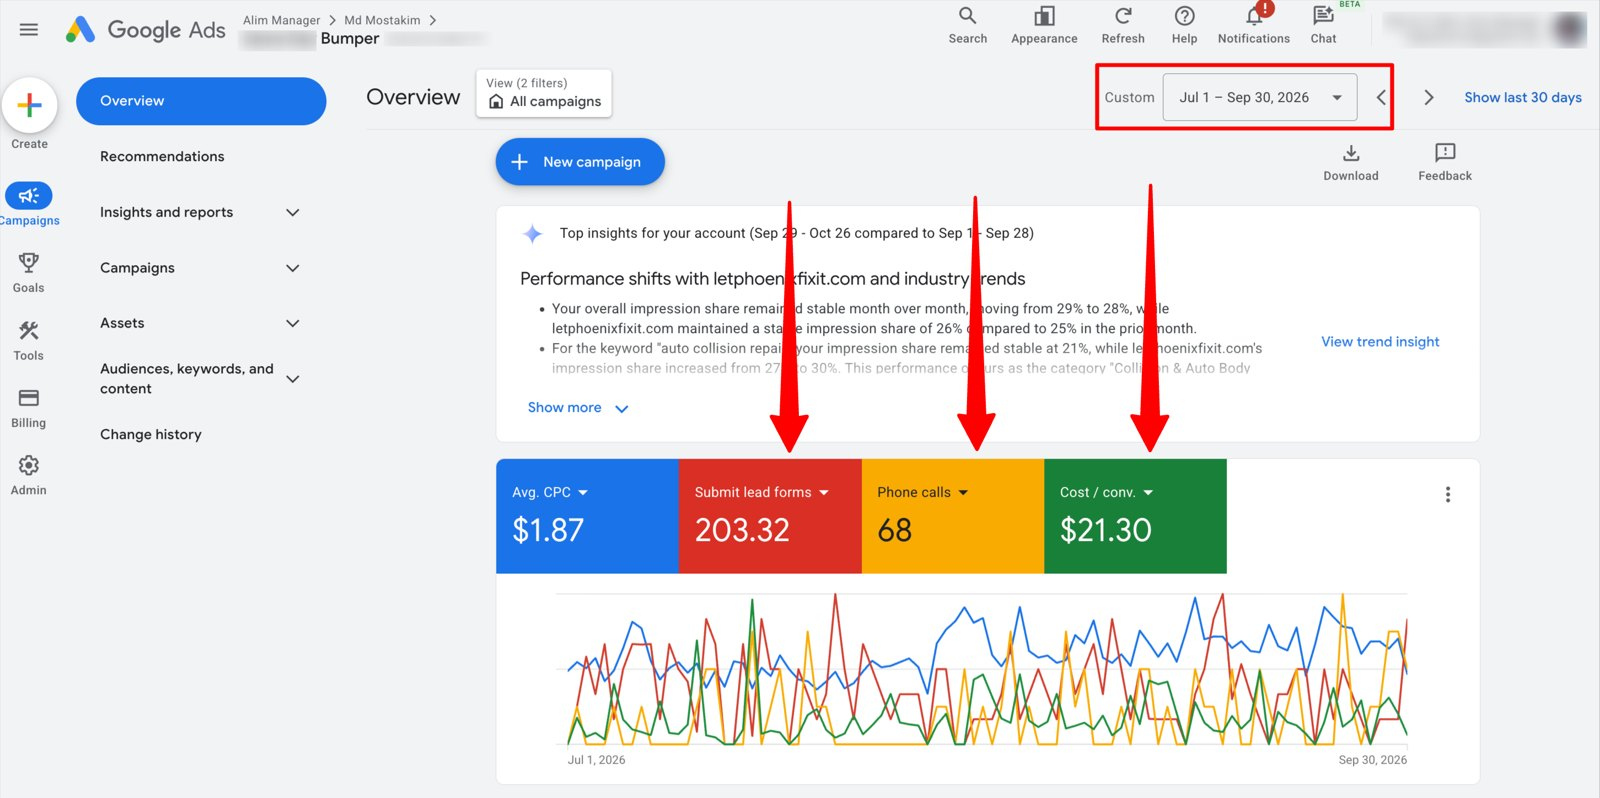
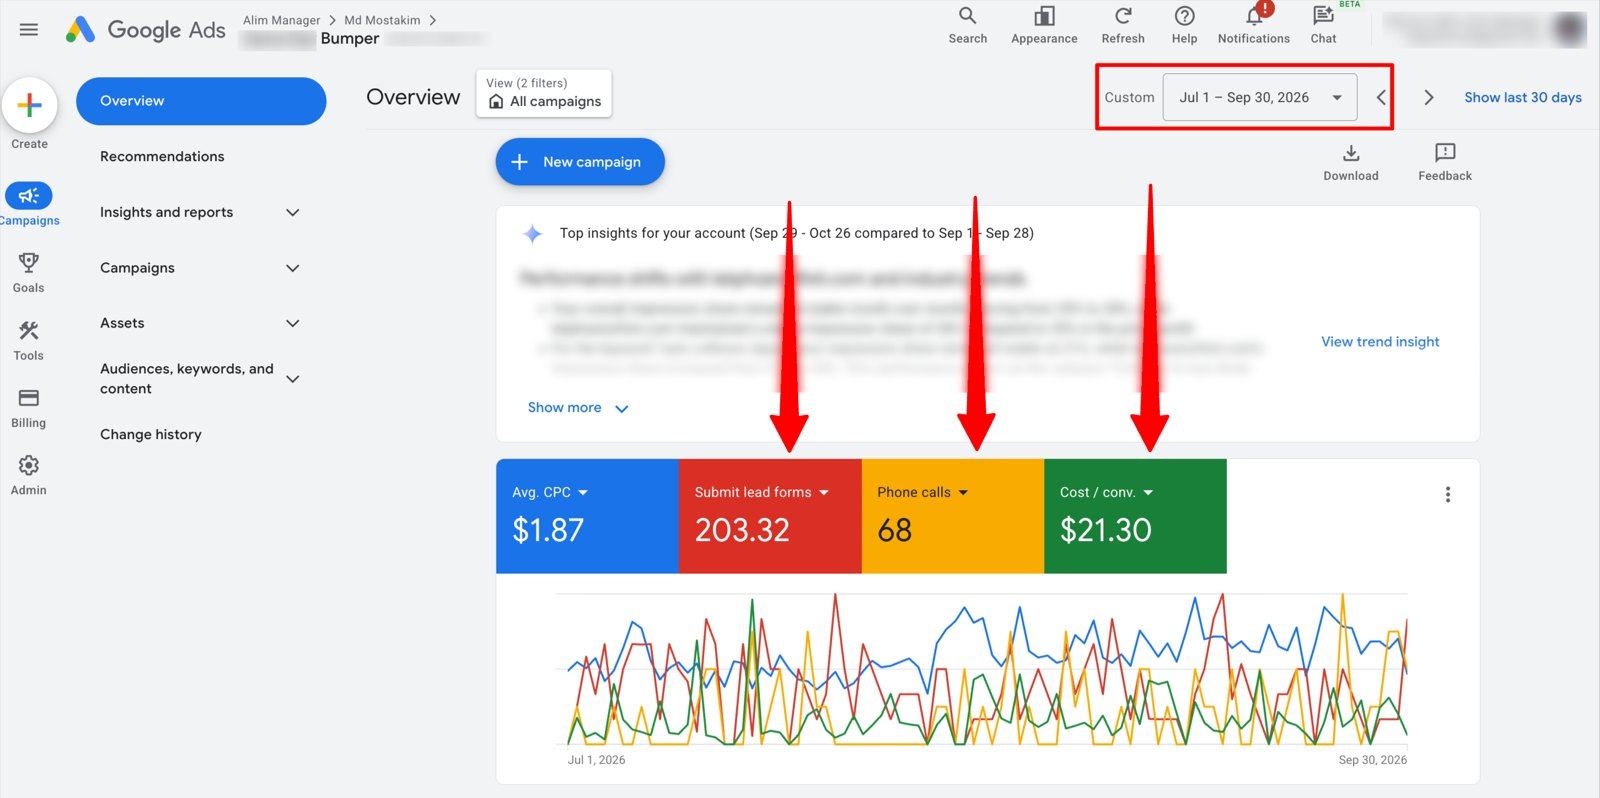
Auto body landing page: shorten page, owner-focused copy, guarantee min spend, blur competitor domain

Changed region(s): [[0.3125, 0.3008, 0.7812, 0.5113]]

diff --git a/auto-body/index.html b/auto-body/index.html
@@ -232,6 +232,21 @@ footer p+p{margin-top:6px}
 .hero-shot figcaption b{display:block;font-family:Offside,sans-serif;font-weight:400;font-size:clamp(20px,2.2vw,26px);color:var(--gold);line-height:1.25}
 .hero-shot figcaption span{display:block;font-family:"IBM Plex Mono",monospace;font-size:12.5px;color:#9A9A9A;margin-top:8px;letter-spacing:.02em}
 
+
+/* review additions */
+.roi{margin-top:24px;background:#fff;border:1px solid var(--line);border-left:4px solid var(--gold);border-radius:12px;padding:18px 20px}
+.roi p{font-size:16px}
+.roi span{display:block;font-size:12.5px;color:var(--muted);margin-top:8px}
+.steps3{grid-template-columns:repeat(3,1fr)}
+.included{margin:28px auto 0;max-width:900px;background:#fff;border:1px solid var(--line);border-radius:14px;padding:24px 28px;text-align:center}
+.included ul{list-style:none;display:grid;grid-template-columns:repeat(3,1fr);gap:10px 18px;text-align:left}
+.included li{padding-left:24px;position:relative;font-size:15.5px}
+.included li:before{content:"✓";position:absolute;left:0;color:var(--gold-d);font-weight:700}
+.guarantee .budget{margin-top:20px}
+.dark .problem p{color:var(--ink)}
+@media (max-width:980px){.steps3{grid-template-columns:1fr}.included ul{grid-template-columns:1fr 1fr}.reviews{grid-template-columns:1fr !important}}
+@media (max-width:640px){.included ul{grid-template-columns:1fr}}
+
 /* Mobile sticky CTA */
 .mcta{display:none}
 
@@ -309,15 +324,19 @@ footer p+p{margin-top:6px}
   </div>
 </header>
 
-<!-- REAL EXPERIENCE -->
+<!-- RESULTS -->
 <section>
   <div class="wrap two">
     <div>
-      <div class="eyebrow">Real Experience</div>
-      <h2>Real Collision Shop <em>Ad Management</em> Experience</h2>
-      <p class="lead">We don't learn the collision industry on your budget. Our team already runs live Google Ads accounts for auto body and bumper repair shops — figuring out why a campaign stalls, building the tracking that proves a lead was real, and moving spend toward the searches that turn into repair orders.</p>
-      <p class="lead" style="margin-top:14px">Look at the keywords bringing in the leads: <b>"auto collision repair"</b>, <b>"dent and scratch repair near me"</b>, <b>"same day bumper"</b>. These are people with a damaged car, ready to book — not tire-kickers. "Same day bumper" brought in leads for just <b>$6.76 each</b> with a perfect 10/10 Quality Score.</p>
-      <p class="lead" style="margin-top:14px">That's the difference: we bid on the searches that turn into repair orders, and cut the ones that don't.</p>
+      <div class="eyebrow">Real Results</div>
+      <h2>The Searches That Bring <em>Damaged Cars</em> To Your Shop</h2>
+      <p class="lead">This is the keyword report from a live collision &amp; bumper repair account we manage. The leads came from people searching <b>"auto collision repair"</b>, <b>"dent and scratch repair near me"</b> and <b>"same day bumper"</b> — drivers with a damaged car, ready to book.</p>
+      <p class="lead" style="margin-top:14px">"Same day bumper" alone brought in calls and estimate requests for just <b>$6.76 each</b>. We bid on the searches that turn into repair orders, and cut the ones that don't.</p>
+      <div class="roi">
+        <div class="eyebrow" style="margin-bottom:8px">Quick math for your shop</div>
+        <p>At <b>$21 per lead</b>, if 1 in 4 leads books a repair, each booked job costs about <b>$85 in ads</b>. If your average repair ticket is $2,500, that's a strong return on every job.</p>
+        <span>Example only — we'll run the numbers for your shop on the call.</span>
+      </div>
       <div class="cta-row"><a href="#book" class="btn">Book a Free Call</a></div>
     </div>
     <figure class="r90-shot">
@@ -327,14 +346,84 @@ footer p+p{margin-top:6px}
   </div>
 </section>
 
-<!-- REVIEWS -->
+<!-- PROBLEMS -->
+<section class="dark">
+  <div class="wrap">
+    <div class="center">
+      <div class="eyebrow">Why Body Shop Ads Waste Money</div>
+      <h2>Running Google Ads Isn't Hard. <em>Running Them Profitably Is.</em></h2>
+      <p class="lead">Someone who just got into a fender bender searches once and calls fast. Every wasted click or missed call is a repair job that went to the shop down the road.</p>
+    </div>
+    <div class="problems">
+      <div class="problem"><b>01</b><p>Paying for clicks from DIY dent kits, job seekers and "how much does it cost" searches</p></div>
+      <div class="problem"><b>02</b><p>Calls coming in from towns your shop doesn't actually serve</p></div>
+      <div class="problem"><b>03</b><p>No idea which ads actually brought cars into your bays</p></div>
+      <div class="problem"><b>04</b><p>Hiring an agency and never speaking to the person running your account</p></div>
+    </div>
+  </div>
+</section>
+
+<!-- PROCESS + INCLUDED -->
+<section>
+  <div class="wrap">
+    <div class="center">
+      <div class="eyebrow">How It Works</div>
+      <h2>From Free Call To <em>Cars In Your Bays</em></h2>
+    </div>
+    <div class="steps steps3">
+      <div class="step"><div class="n">01</div><h3>Free Strategy Call</h3><p>We learn your shop — services, insurance vs. customer-pay work, service area and budget — and look at search demand near you. You get a straight answer on whether Google Ads fits.</p></div>
+      <div class="step"><div class="n">02</div><h3>Build &amp; Launch</h3><p>Campaigns by repair type, targeting the ZIP codes your customers drive from, with call tracking and a photo-estimate landing page.</p></div>
+      <div class="step"><div class="n">03</div><h3>Optimize Every Week</h3><p>We cut wasted searches, check call quality and move budget toward what books jobs. You get a monthly report in plain English.</p></div>
+    </div>
+    <div class="included">
+      <div class="eyebrow" style="margin-bottom:14px">Everything included</div>
+      <ul>
+        <li>Campaign setup &amp; ad copy</li>
+        <li>Photo-estimate landing page</li>
+        <li>Call &amp; form tracking</li>
+        <li>Weekly optimization</li>
+        <li>Monthly plain-English report</li>
+        <li>Direct line to your specialist</li>
+      </ul>
+    </div>
+  </div>
+</section>
+
+<!-- GUARANTEE + BUDGET -->
+<section style="padding-top:0">
+  <div class="wrap">
+    <div class="guarantee">
+      <div class="seal"><div><b>200+</b><span>Leads · 90 Days</span></div></div>
+      <div>
+        <div class="eyebrow">Our 90-Day Lead Guarantee</div>
+        <h2>200+ Qualified Leads in 90 Days.<br><em>Or We Work for Free Until You Do.</em></h2>
+        <p>We can make this promise because we track every lead. You see each call and estimate request in your report — so there's never any guessing about whether we hit the number.</p>
+        <div class="budget"><b>$1,500+/mo</b><span>recommended ad spend for a single-location shop, paid directly to Google. Management starts from $1,000/month. Month-to-month, no long contracts.</span></div>
+        <details class="terms">
+          <summary>See guarantee terms</summary>
+          <ul>
+            <li>For new Google Ads management clients.</li>
+            <li>The agreed ad budget (minimum $1,500/month, paid directly to Google) stays active for the full 90 days.</li>
+            <li>A qualified lead is a unique phone call of 60+ seconds or a form request from someone in your service area asking about your services. Spam, duplicates, job seekers and sales pitches don't count.</li>
+            <li>You give us access to your ad account, landing page and tracking, and reply to change requests within 3 business days.</li>
+            <li>If you don't reach 200 qualified leads within 90 days of launch, we keep managing your campaigns with no management fee until you do.</li>
+            <li>In higher-cost markets, we agree the lead target with you in writing before launch.</li>
+          </ul>
+        </details>
+        <div class="cta-row" style="margin-top:24px"><a href="#book" class="btn">Book a Free Call</a></div>
+      </div>
+    </div>
+  </div>
+</section>
+
+<!-- REVIEWS + TEAM -->
 <section class="dark">
   <div class="wrap">
     <div class="center">
       <div class="eyebrow">What Clients Say</div>
       <h2>Don't take our word for it. <em>Take our clients'.</em></h2>
     </div>
-    <div class="reviews">
+    <div class="reviews" style="grid-template-columns:repeat(2,1fr)">
       <div class="review">
         <div class="stars">★★★★★</div>
         <p>“The optimizations he made had a real impact, and I've been seeing noticeable improvements in performance and overall results since implementing his strategies.”</p>
@@ -345,200 +434,26 @@ footer p+p{margin-top:6px}
         <p>“He helped us reduce our Google Ads budget by approximately 30% while making every remaining advertising dollar about 40% more productive.”</p>
         <div class="who"><div class="avatar">C</div><div><b>Clarity Hearing Care</b>United States · Fiverr review</div></div>
       </div>
-      <div class="review">
-        <div class="stars">★★★★★</div>
-        <p>“Communication has always been smooth, deadlines were respected, and he was always willing to explain things clearly and provide valuable insights along the way.”</p>
-        <div class="who"><div class="avatar">M</div><div><b>marianaspb</b>United States · Fiverr review</div></div>
-      </div>
-    </div>
-  </div>
-</section>
-
-<!-- AGENCY POSITIONING -->
-<section>
-  <div class="wrap">
-    <div class="center">
-      <div class="eyebrow">Built Around Your Shop</div>
-      <h2>A Full Team Behind Your Ads. <em>One Person Accountable.</em></h2>
-      <p class="lead">Most body shops get stuck between two bad options: a big agency where the salesperson never touches the account, or a solo freelancer with no backup, no tracking help and no one to build the landing page. Unlimited Growth Drive gives you a specialist team — and a direct line to the person running your campaigns.</p>
-    </div>
-    <div class="compare">
-      <div class="col">
-        <h3>Typical Big Agency</h3>
-        <div class="chain"><span>Salesperson</span><em>→</em><span>Account manager</span><em>→</em><span>Junior buyer</span><em>→</em><span>Your budget</span></div>
-        <ul>
-          <li>Long contracts and setup fees</li>
-          <li>Never speak to who runs your ads</li>
-          <li>Generic templates across industries</li>
-          <li>Reports full of impressions, not jobs</li>
-        </ul>
-      </div>
-      <div class="col">
-        <h3>Solo Freelancer</h3>
-        <div class="chain"><span>One person</span><em>→</em><span>Everything</span></div>
-        <ul>
-          <li>Ads only — no landing page or tracking team</li>
-          <li>Account goes quiet when they're busy or away</li>
-          <li>No second set of eyes on your spend</li>
-          <li>Calls often untracked</li>
-        </ul>
-      </div>
-      <div class="col us">
-        <h3>Unlimited Growth Drive</h3>
-        <div class="chain"><span>You</span><em>⟷</em><span>Your dedicated Google Ads specialist</span><em>+</em><span>Tracking &amp; landing page team</span></div>
-        <ul>
-          <li>Already running live collision accounts</li>
-          <li>Ads, landing page &amp; call tracking under one roof</li>
-          <li>Weekly hands-on optimization</li>
-          <li>Google Ads, GA4 &amp; Meta certified team</li>
-          <li>Month-to-month — we earn your business monthly</li>
-          <li>You talk to the person making the decisions</li>
-        </ul>
-      </div>
     </div>
     <figure class="team-photo">
       <img src="/assets/hero/ugd-team.jpg" alt="The Unlimited Growth Drive team" loading="lazy" onerror="this.parentElement.style.display='none'">
-      <figcaption><b>The UGD team.</b> Strategy, Google Ads, tracking and web design — one team accountable for your lead flow since 2021.</figcaption>
+      <figcaption><b>The UGD team.</b> A full team behind your ads — and one specialist you talk to directly. No salesperson in the middle.</figcaption>
     </figure>
   </div>
 </section>
 
-<!-- GUARANTEE -->
-<section style="padding-top:0">
-  <div class="wrap">
-    <div class="guarantee">
-      <div class="seal"><div><b>200+</b><span>Leads · 90 Days</span></div></div>
-      <div>
-        <div class="eyebrow">Our 90-Day Lead Guarantee</div>
-        <h2>200+ Qualified Leads in 90 Days.<br><em>Or We Work for Free Until You Do.</em></h2>
-        <p>We can make this promise because we track every lead. You see each call and form request in your report — so there's never any guessing about whether we hit the number.</p>
-        <details class="terms">
-          <summary>See guarantee terms</summary>
-          <ul>
-            <li>For new Google Ads management clients.</li>
-            <li>The ad budget agreed in your growth plan stays active for the full 90 days. You pay ad spend directly to Google.</li>
-            <li>A qualified lead is a unique phone call of 60+ seconds or a form request from someone in your service area asking about your services. Spam, duplicates, job seekers and sales pitches don't count.</li>
-            <li>You give us access to your ad account, landing page and tracking, and reply to change requests within 3 business days.</li>
-            <li>If you don't reach 200 qualified leads within 90 days of launch, we keep managing your campaigns with no management fee until you do.</li>
-          </ul>
-        </details>
-        <div class="cta-row" style="margin-top:24px"><a href="#book" class="btn">Book a Free Call</a></div>
-      </div>
-    </div>
-  </div>
-</section>
-
-<!-- PROCESS -->
-<section style="padding-top:20px">
-  <div class="wrap">
-    <div class="center">
-      <div class="eyebrow">What Happens Next</div>
-      <h2>From Free Call To <em>Active Campaign Management</em></h2>
-    </div>
-    <div class="steps">
-      <div class="step"><div class="n">01</div><h3>Free 30-Minute Strategy Call</h3><p>We learn your shop: services, insurance work vs. customer-pay, service radius, current advertising, budget and growth goals. You get a straight answer on whether paid search fits.</p></div>
-      <div class="step"><div class="n">02</div><h3>Collision Market Assessment</h3><p>We review search demand and competitors in your area, your existing account if you have one, your tracking, and how leads currently move from ad to repair order.</p></div>
-      <div class="step"><div class="n">03</div><h3>Campaign &amp; Landing Page Build</h3><p>Campaign structure, keywords by repair type, ZIP-code targeting, ad copy, call tracking and a photo-estimate landing page — built or rebuilt around your numbers.</p></div>
-      <div class="step"><div class="n">04</div><h3>Optimize Against Real Lead Data</h3><p>Weekly review of search terms, recorded calls, lead quality, bids and budget. Changes are made against what booked in your shop — not what looked good in Google.</p></div>
-    </div>
-    <div class="center cta-row"><a href="#book" class="btn">Book a Free Call</a></div>
-  </div>
-</section>
-
-<!-- IS PPC RIGHT -->
-<section class="dark">
-  <div class="wrap">
-    <div class="fit">
-      <div>
-        <div class="eyebrow">Is PPC the Right Move Yet?</div>
-        <h2><span>More Calls.</span><span>More Repair Orders.</span><span>Less Wasted Spend.</span></h2>
-        <p class="lead">Being straight with you up front is cheaper than finding out in month three. We generally recommend having at least the budget below available for ad spend alone — separate from management — so the account gathers enough data for Google's bidding to learn, compete and win your local auctions.</p>
-        <div class="budget"><b>$1,500+/mo</b><span>recommended ad spend for a single-location collision shop, paid directly to Google. Management starts from $1,000/month.</span></div>
-      </div>
-      <div class="timing">
-        <div class="eyebrow">Timing, Honestly</div>
-        <div class="timeline">
-          <div><b>Week 1–2</b><span>Campaigns, tracking and landing page go live. First calls usually come in within the first couple of weeks.</span></div>
-          <div><b>Month 1–2</b><span>The account gathers data, the bidding learns, and we cut wasted searches and out-of-area clicks every week.</span></div>
-          <div><b>Month 3+</b><span>Efficient, predictable lead flow. We keep monitoring and scale budget toward what books jobs.</span></div>
-        </div>
-      </div>
-    </div>
-    <p class="fit-quote">If you're looking for a one-day lead switch, PPC isn't the right fit. If you want a measurable, predictable source of repair jobs for your shop — let's talk.</p>
-    <div class="cta-row"><a href="#book" class="btn">Book a Free Call</a></div>
-  </div>
-</section>
-
-<!-- PROBLEMS -->
+<!-- FAQ -->
 <section>
   <div class="wrap">
     <div class="center">
-      <div class="eyebrow">The PPC Problem</div>
-      <h2>Running Google Ads Isn't Hard. <em>Running Them Profitably Is.</em></h2>
-      <p class="lead">Collision repair is high-intent and high-competition. Someone who just got into a fender bender searches once and calls fast — so every wasted click, out-of-area call and untracked phone lead is a repair job that went to the shop down the road.</p>
-    </div>
-    <div class="problems">
-      <div class="problem"><b>01</b><p>Paying for clicks from people looking for DIY dent kits, used bumpers or "how much does it cost" articles</p></div>
-      <div class="problem"><b>02</b><p>Calls coming in from towns your shop doesn't actually serve</p></div>
-      <div class="problem"><b>03</b><p>Budget spent on job seekers searching "auto body technician jobs" and "body shop hiring"</p></div>
-      <div class="problem"><b>04</b><p>Every conversion counted the same — a $4,000 insurance repair and a wrong number look identical</p></div>
-      <div class="problem"><b>05</b><p>Google's automation making budget decisions with no idea which repairs are profitable for you</p></div>
-      <div class="problem"><b>06</b><p>No idea which campaign actually brought in the cars that hit your bays</p></div>
-      <div class="problem"><b>07</b><p>Evenings spent inside Google Ads instead of running the shop and writing estimates</p></div>
-      <div class="problem"><b>08</b><p>Hiring an agency and never once speaking to the person touching your account</p></div>
-    </div>
-    <div class="center cta-row"><a href="#book" class="btn">Book a Free Call</a></div>
-  </div>
-</section>
-
-<!-- WHAT GOES IN -->
-<section style="padding-top:0">
-  <div class="wrap">
-    <div class="center">
-      <div class="eyebrow">What's Included</div>
-      <h2>What Goes Into Managing <em>Your Collision Campaigns</em></h2>
-      <p class="lead">Four jobs, running on a loop. Nothing here is an add-on or an upsell — it's what managing a lead-generation account for a body shop actually takes.</p>
-    </div>
-    <div class="work">
-      <div class="job">
-        <div class="ic"><svg viewBox="0 0 24 24" fill="none" stroke="currentColor" stroke-width="2"><path d="M14.7 6.3a4 4 0 0 0-5.4 5.4L3 18l3 3 6.3-6.3a4 4 0 0 0 5.4-5.4l-2.5 2.5-2.4-.6-.6-2.4 2.5-2.5Z"/></svg></div>
-        <h3>Build</h3><p>The account is architected around your repair services and market before a dollar runs.</p>
-        <ul><li>Ad account setup &amp; configuration</li><li>Keyword research by repair type</li><li>Collision, bumper, dent &amp; paint campaigns</li><li>Call-only &amp; Search campaigns</li><li>ZIP-code &amp; radius targeting</li><li>Ad copy &amp; extensions</li><li>Photo-estimate landing page</li></ul>
-      </div>
-      <div class="job">
-        <div class="ic"><svg viewBox="0 0 24 24" fill="none" stroke="currentColor" stroke-width="2"><circle cx="12" cy="12" r="9"/><circle cx="12" cy="12" r="5"/><circle cx="12" cy="12" r="1.2" fill="currentColor"/></svg></div>
-        <h3>Measure</h3><p>If a lead can't be traced, it can't be optimized toward.</p>
-        <ul><li>Conversion tracking</li><li>Google Tag Manager</li><li>GA4 configuration</li><li>Call tracking by campaign</li><li>Server-side tracking</li><li>CRM / shop software integration where possible</li></ul>
-      </div>
-      <div class="job">
-        <div class="ic"><svg viewBox="0 0 24 24" fill="none" stroke="currentColor" stroke-width="2"><path d="M3 17l6-6 4 4 8-8"/><path d="M15 7h6v6"/></svg></div>
-        <h3>Optimize</h3><p>The ongoing work: cutting waste and pushing budget toward what books repairs.</p>
-        <ul><li>Weekly search term review</li><li>Negative keyword management</li><li>Bidding strategy</li><li>Budget allocation</li><li>Ad copy testing</li><li>Call recording &amp; lead quality review</li><li>Landing page CRO</li></ul>
-      </div>
-      <div class="job">
-        <div class="ic"><svg viewBox="0 0 24 24" fill="none" stroke="currentColor" stroke-width="2"><rect x="4" y="3" width="16" height="18" rx="2"/><path d="M8 15v2M12 11v6M16 8v9"/></svg></div>
-        <h3>Report</h3><p>Reporting in body-shop terms, not platform terms.</p>
-        <ul><li>Monthly performance report</li><li>Cost per lead &amp; cost per repair job</li><li>Conversion rate trends</li><li>Spend vs. lead volume</li><li>What changed and why</li><li>Direct calls with your specialist</li></ul>
-      </div>
-    </div>
-  </div>
-</section>
-
-<!-- FAQ -->
-<section style="padding-top:20px">
-  <div class="wrap">
-    <div class="center">
       <div class="eyebrow">FAQ</div>
-      <h2>Questions Body Shop Owners Usually Ask <em>Before Investing in PPC</em></h2>
+      <h2>Questions Body Shop Owners <em>Usually Ask</em></h2>
     </div>
     <div class="faq">
-      <details open><summary>How much should I budget for Google Ads?</summary><p>We generally recommend at least $1,500 per month in ad spend for a single-location collision shop, paid directly to Google and separate from management. Below that there usually isn't enough click volume to collect data, train the bidding and optimize toward booked repairs instead of guesses. Management starts from $1,000/month and depends on your spend level and number of locations — we'll go through it on the call.</p></details>
-      <details><summary>How quickly can Google Ads start generating leads?</summary><p>Campaigns can start producing calls within the first couple of weeks. Efficient, stable performance usually takes 1–2 months while the account gathers data, the bidding learns, and we cut out wasted searches.</p></details>
-      <details><summary>Do you work with insurance (DRP) work or only customer-pay jobs?</summary><p>Both. We build campaigns around the jobs you want more of — insurance claims, customer-pay collision repair, bumper repair, dents, paint or fleet work — and write ads and landing pages that speak to that customer.</p></details>
-      <details><summary>Will I talk to the person actually running my ads?</summary><p>Yes. You get a dedicated Google Ads specialist who builds and optimizes your account and joins your strategy calls — backed by our tracking and landing page team. No salesperson in the middle.</p></details>
-      <details><summary>Can you track phone calls?</summary><p>Yes. Most collision leads come in by phone, so call tracking is part of every setup. We track calls by campaign and keyword, and count only real calls from your service area as leads.</p></details>
-      <details><summary>What if we've already run Google Ads and it didn't work?</summary><p>That's common. We'll audit your old account on the call — usually the problems are broad keywords, missing negative keywords, untracked calls or a weak landing page. We rebuild from what the data shows, not from scratch for the sake of it.</p></details>
-      <details><summary>Do you help with landing pages?</summary><p>Yes. A conversion-focused landing page with click-to-call and a photo-estimate form is included in the build. Sending ad traffic to a generic homepage is one of the biggest reasons body shop ads underperform.</p></details>
+      <details open><summary>How much should I budget for Google Ads?</summary><p>We recommend at least $1,500 per month in ad spend for a single-location shop, paid directly to Google and separate from management. Below that there usually aren't enough clicks to learn what books jobs. Management starts from $1,000/month — we'll go through it on the call.</p></details>
+      <details><summary>How quickly will my phone start ringing?</summary><p>First calls usually come in within the first couple of weeks. Steady, efficient lead flow typically takes 1–2 months while we cut wasted searches and the account learns what works.</p></details>
+      <details><summary>Do you work with insurance (DRP) work or only customer-pay jobs?</summary><p>Both. We build campaigns around the jobs you want more of — insurance claims, customer-pay collision, bumper repair, dents or paint — and write ads and landing pages for that customer.</p></details>
+      <details><summary>What if we've already run Google Ads and it didn't work?</summary><p>That's common. We'll look at your old account on the call — usually the problems are broad keywords, untracked calls or a weak landing page. We fix what the data shows.</p></details>
       <details><summary>Am I locked into a contract?</summary><p>No. We work month-to-month. You own your Google Ads account, your data and your landing page.</p></details>
     </div>
   </div>
